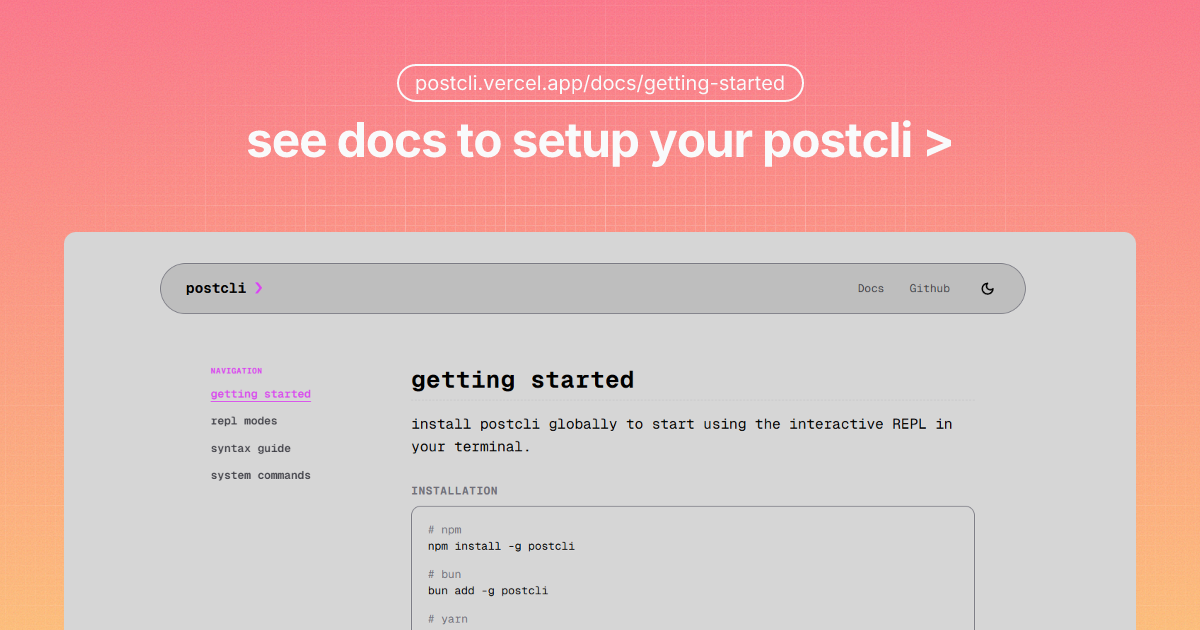
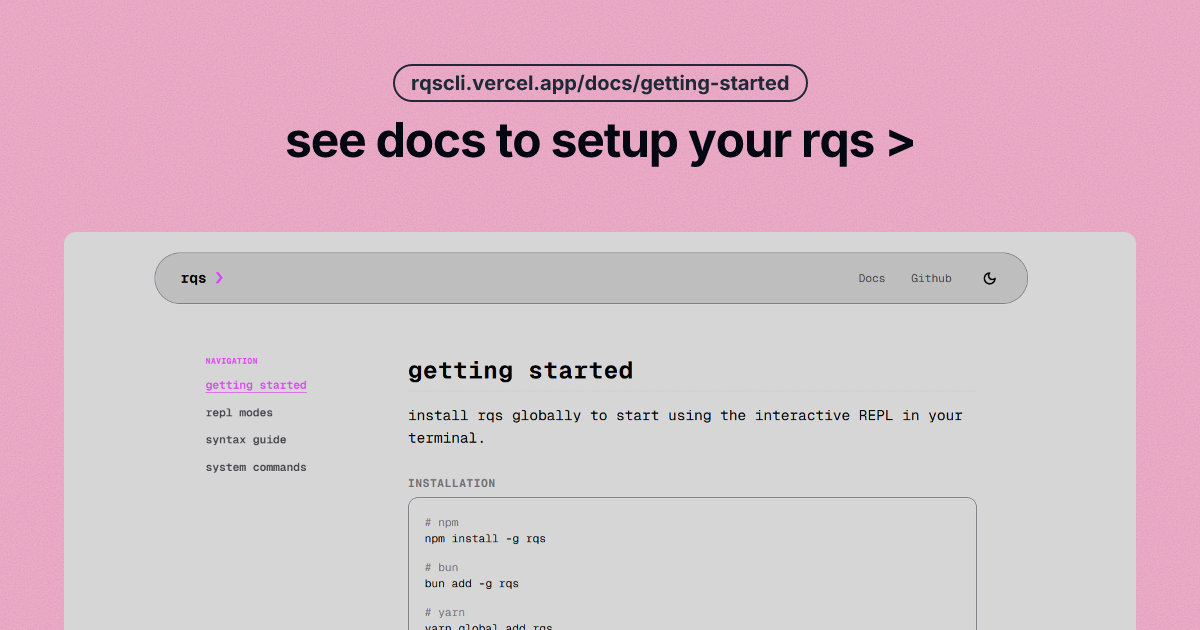
fix(cli): resolve input mode key conflict for typing letter v

diff --git a/apps/cli/src/hooks/useKeyboardNavigation.ts b/apps/cli/src/hooks/useKeyboardNavigation.ts
@@ -89,8 +89,8 @@ export function useKeyboardNavigation({ state: propState }: KeyboardNavigationPr
       }
     }
 
-    // Toggle Response Inspector (v / V)
-    if (input === "v" || input === "V") {
+    // Toggle Response Inspector (v / V) - only in log mode!
+    if (panel === "log" && (input === "v" || input === "V")) {
       if (lastResponseBody) {
         state.setViewingResponse(true);
         state.setInspectorTab("body");